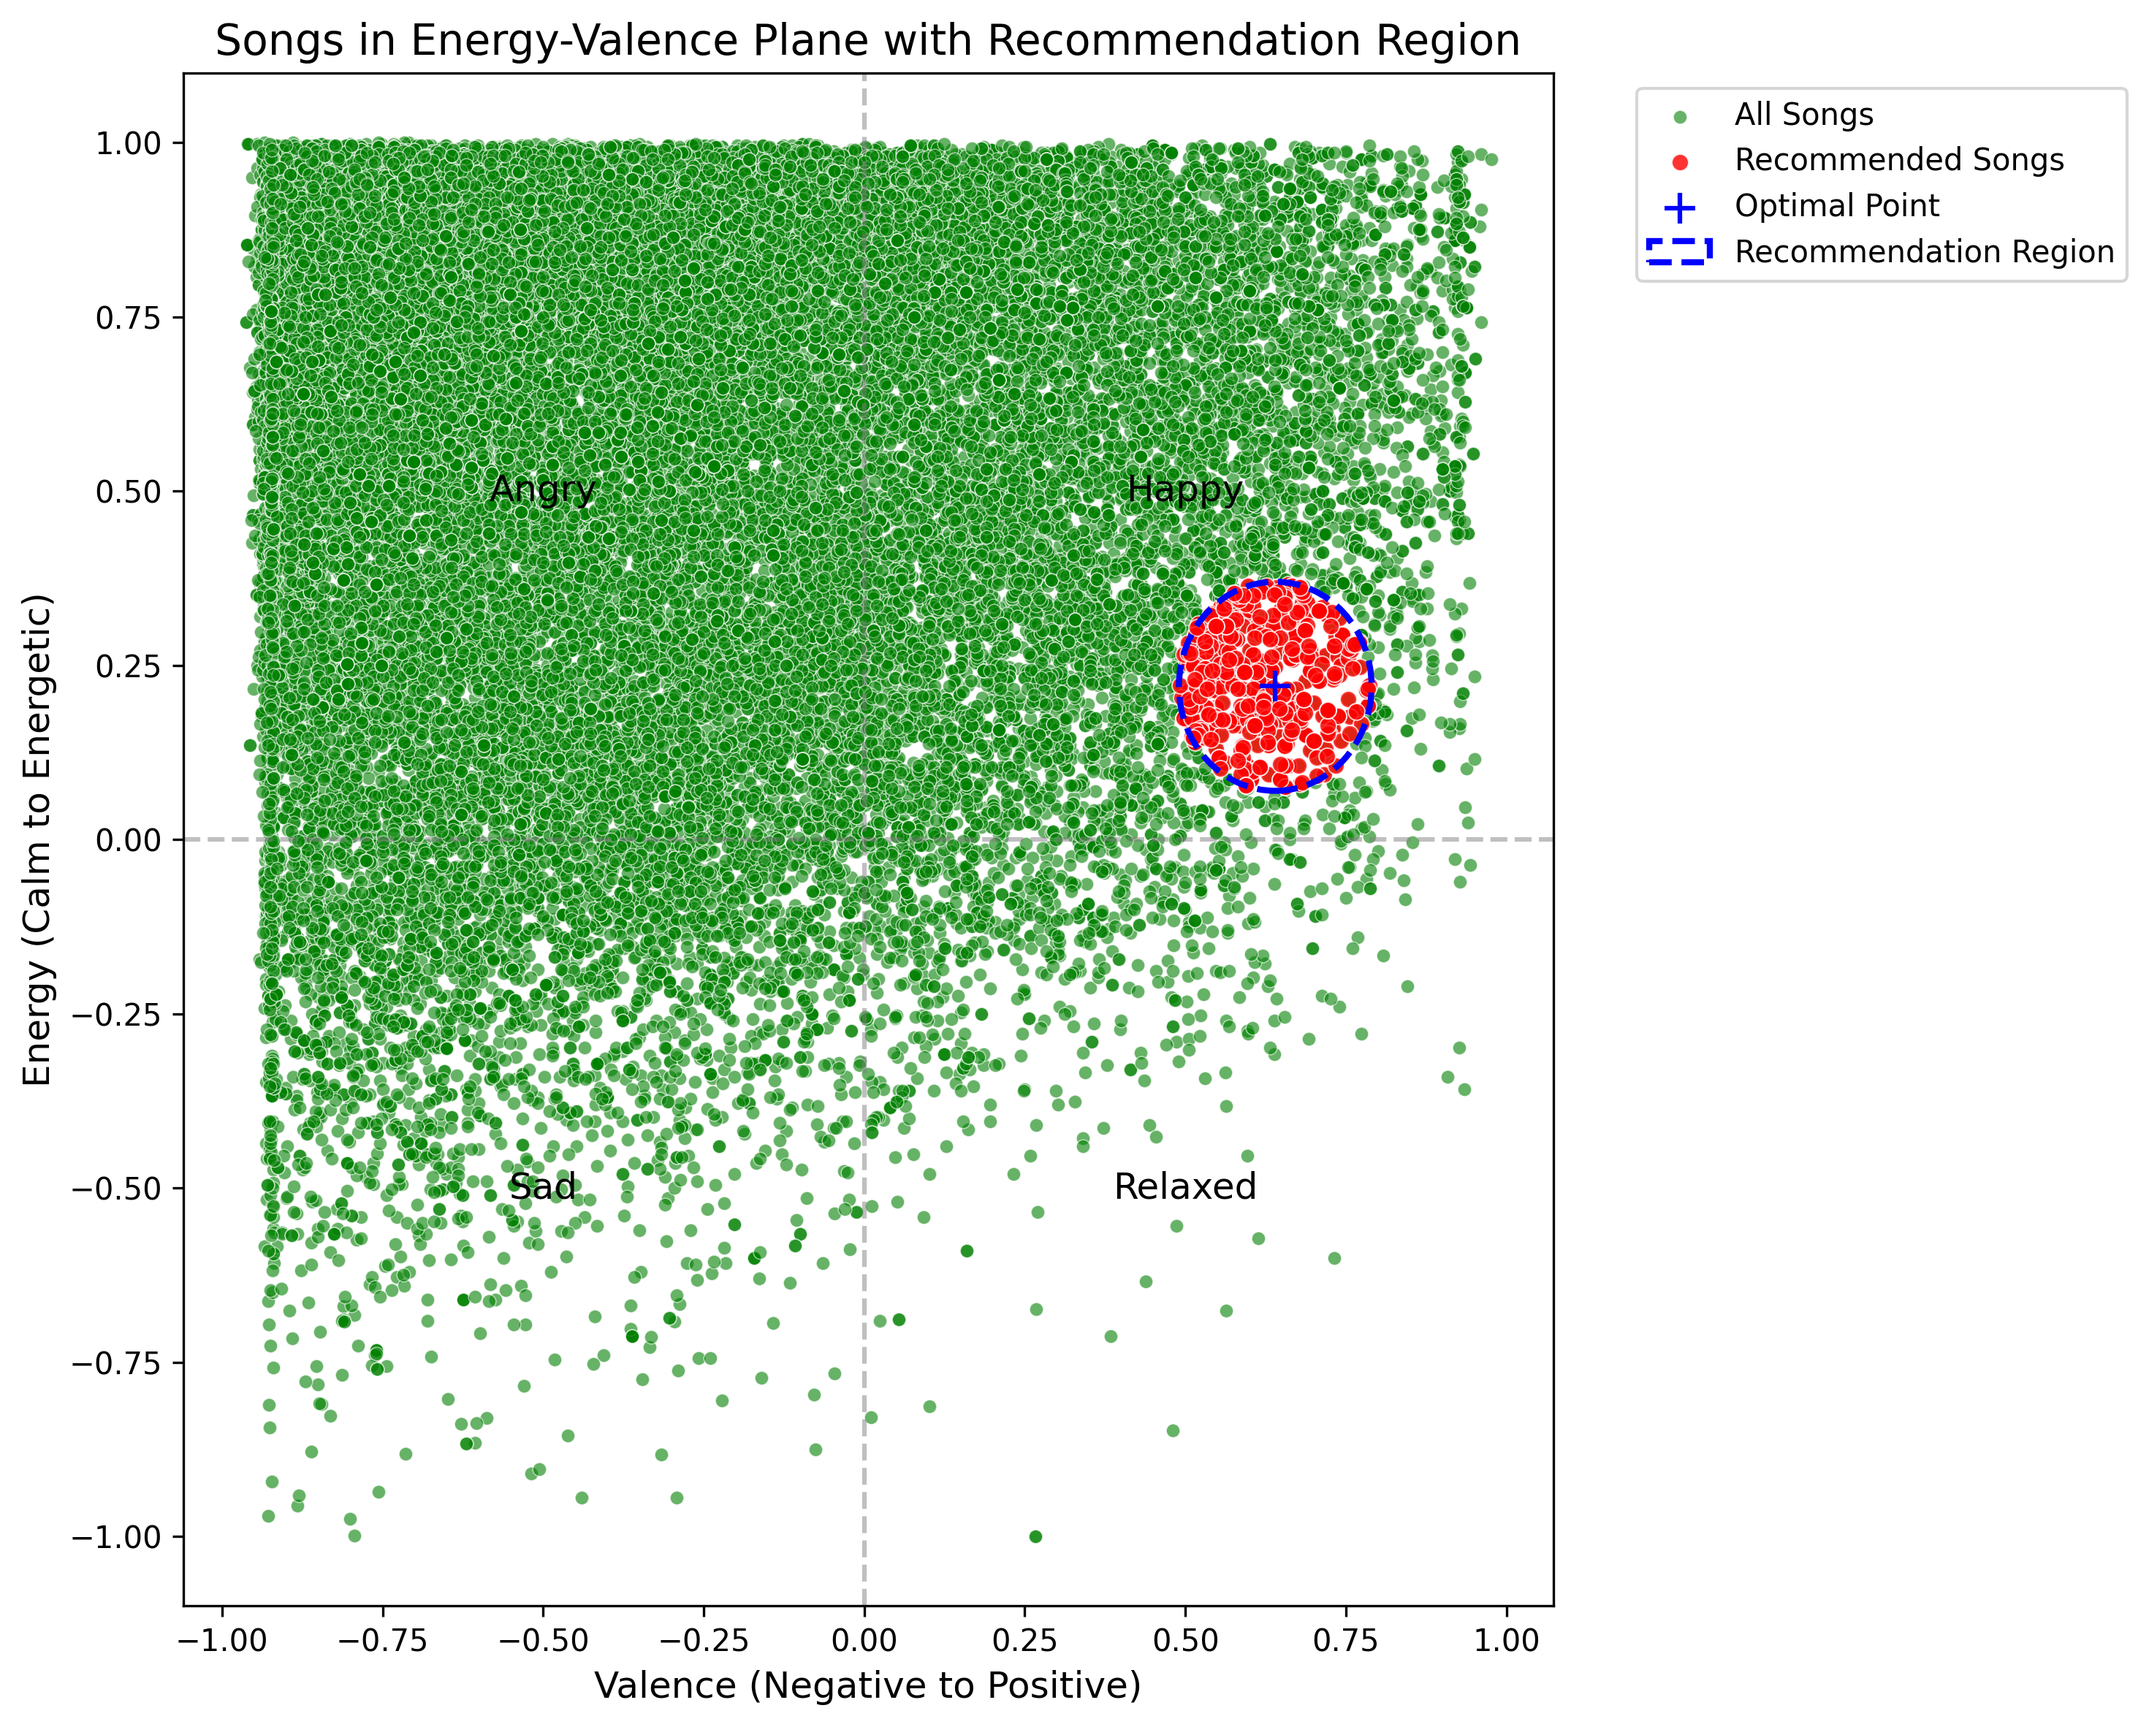
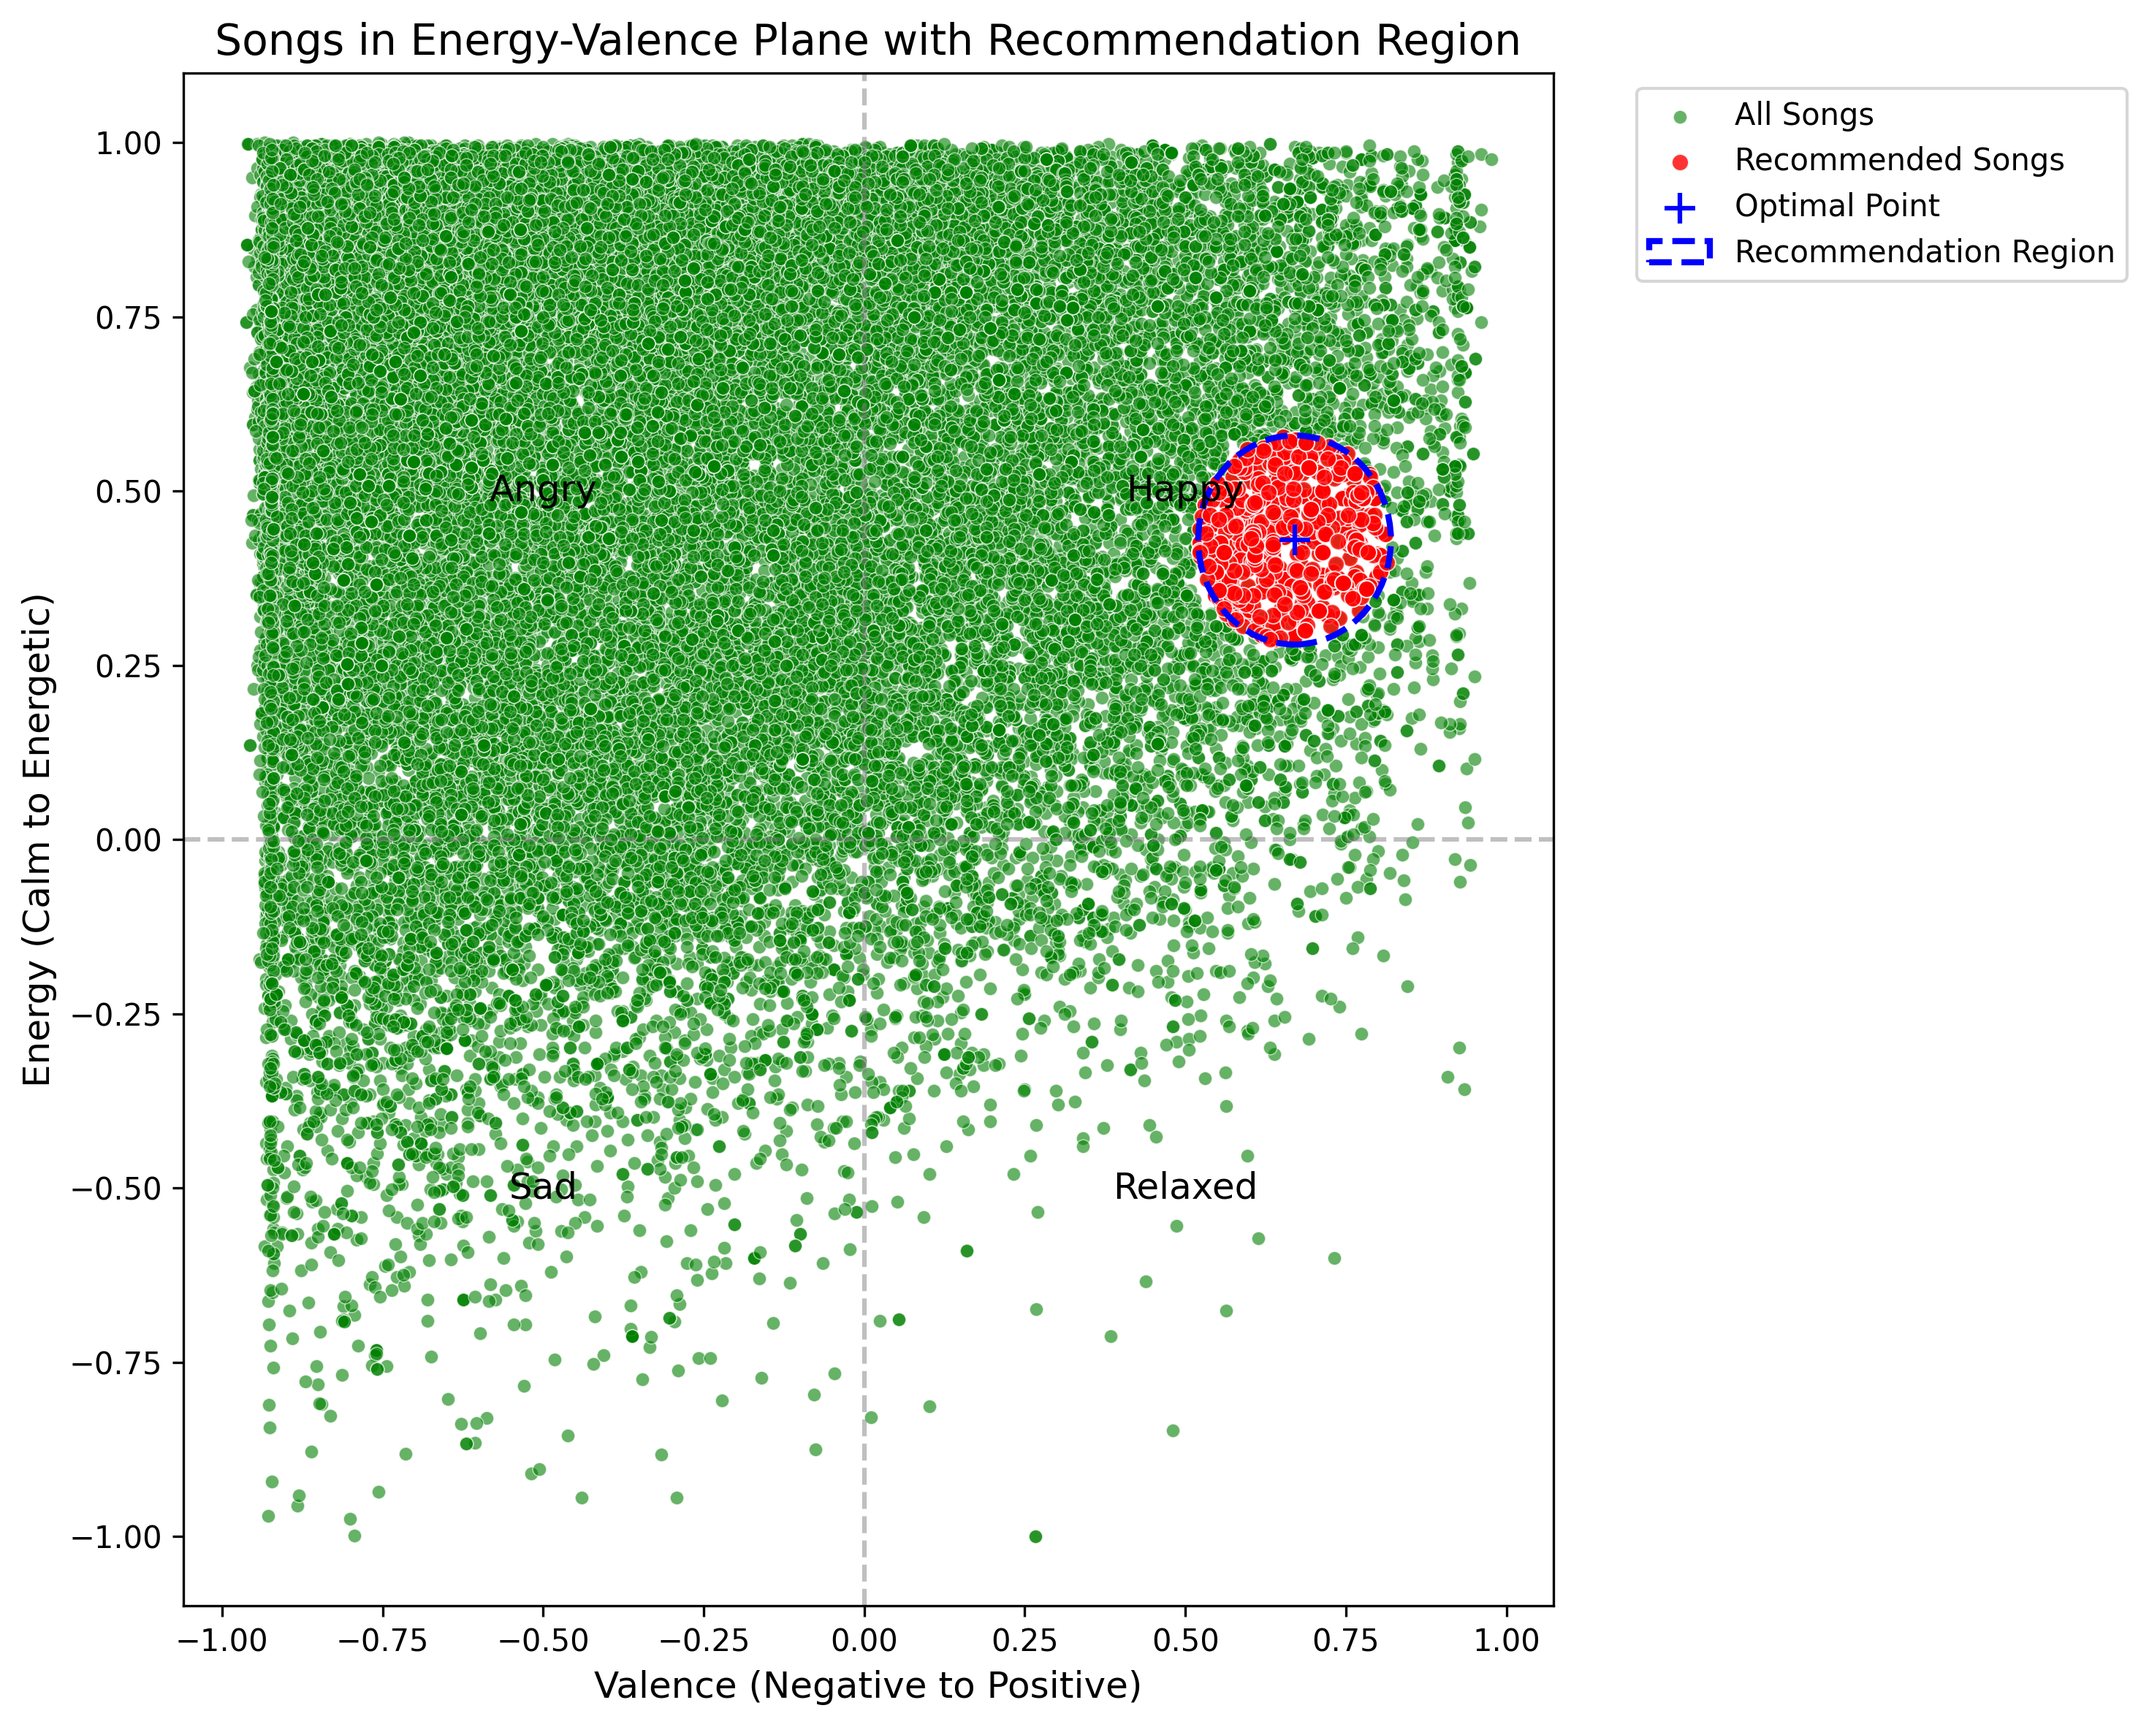
fix issue: duplicating song recommendation

Changed region(s): [[0.526, 0.247, 0.6498, 0.4632]]

diff --git a/backend/app/services/content_based_recommender.py b/backend/app/services/content_based_recommender.py
@@ -59,58 +59,76 @@ def get_best_match_songs(
 
     # Initialize already_seen for use in both branches
     already_seen = get_user_already_seen_songs(user_id, mood, db)
+    seen_track_ids = set()  # Track unique song IDs to avoid duplicates
+    result_songs = []  # Store final 5 unique songs
 
     if user_feature_matrix:
         user_pref_vector = np.mean(user_feature_matrix, axis=0).reshape(1, -1)
 
         scored_songs = []
-
         for song in songs:
+            if song.get("track_id") in seen_track_ids:
+                continue  # Skip duplicates
             song_vector = np.array(get_feature_vector(song, min_loudness, max_loudness)).reshape(1, -1)
             similarity = cosine_similarity(user_pref_vector, song_vector)[0][0]
 
             # Boost score if artist matches
             if fav_artists and artist_matches(song.get("track_artist", ""), fav_artists):
-                similarity += 0.05  # boost score slightly
+                similarity += 0.05  # Boost score slightly
 
             if already_seen and song.get("track_id") in already_seen:
-                similarity -= 0.05  # penalize already seen songs
+                similarity -= 0.05  # Penalize already seen songs
 
             scored_songs.append((similarity, song))
 
+        # Sort by similarity (descending) and collect up to 5 unique songs
         scored_songs.sort(key=lambda x: -x[0])
-        top_songs = [song for _, song in scored_songs[:5]]
-        return top_songs
+        for _, song in scored_songs:
+            if song["track_id"] not in seen_track_ids:
+                result_songs.append(song)
+                seen_track_ids.add(song["track_id"])
+                if len(result_songs) == 5:
+                    return result_songs
 
-    # If no liked songs, rely on favorite artists
-    matching_artists_songs = [song for song in songs 
-                      if artist_matches(song.get("track_artist", ""), fav_artists) ]
+    # If no liked songs or not enough from cosine similarity, rely on favorite artists
+    matching_artists_songs = [
+        song for song in songs 
+        if artist_matches(song.get("track_artist", ""), fav_artists) and song["track_id"] not in seen_track_ids
+    ]
+    matching_artists_songs.sort(key=lambda x: x.get("distance", float("inf")))
 
-    if matching_artists_songs:
-        matching_artists_songs.sort(key=lambda x: x.get("distance", float("inf")))
+    # Add unique songs from matching artists
+    for song in matching_artists_songs:
+        if song["track_id"] not in seen_track_ids:
+            result_songs.append(song)
+            seen_track_ids.add(song["track_id"])
+            if len(result_songs) == 5:
+                return result_songs
 
-        if len(matching_artists_songs) >= 5:
-            return matching_artists_songs[:5]
+    # If still need more songs, add from remaining songs sorted by distance
+    remaining_needed = 5 - len(result_songs)
+    additional_songs = [
+        song for song in sorted(songs, key=lambda x: x.get("distance", float("inf")))
+        if song["track_id"] not in seen_track_ids and (not already_seen or song["track_id"] not in already_seen)
+    ][:remaining_needed]
 
-        remaining_needed = 5 - len(matching_artists_songs)
-        matching_ids = {song["track_id"] for song in matching_artists_songs}
+    # Add unique additional songs
+    for song in additional_songs:
+        if song["track_id"] not in seen_track_ids:
+            result_songs.append(song)
+            seen_track_ids.add(song["track_id"])
 
-        if already_seen:
-            additional_songs = [
-                song for song in sorted(songs, key=lambda x: x.get("distance", float("inf")))
-                if song["track_id"] not in matching_ids and song["track_id"] not in already_seen
-            ][:remaining_needed]
-        else:
-            additional_songs = [
-                song for song in sorted(songs, key=lambda x: x.get("distance", float("inf")))
-                if song["track_id"] not in matching_ids
-            ][:remaining_needed]
+    # If still fewer than 5 songs (e.g., input list too small), pad with remaining unique songs
+    if len(result_songs) < 5:
+        remaining_songs = [
+            song for song in songs
+            if song["track_id"] not in seen_track_ids and (not already_seen or song["track_id"] not in already_seen)
+        ]
+        for song in remaining_songs[:5 - len(result_songs)]:
+            result_songs.append(song)
+            seen_track_ids.add(song["track_id"])
 
-        return matching_artists_songs + additional_songs
-
-    # If no matching artists, fallback to distance (new users with no spotify link)
-    sorted_by_distance = sorted(songs, key=lambda x: x.get("distance", float("inf")))
-    return sorted_by_distance[:5]
+    return result_songs[:5]
 
 def get_loudness_bounds(db: Session) -> tuple[float, float]:
     min_loudness = db.query(SongRating).with_entities(func.min(SongRating.loudness)).scalar() or -60.0

diff --git a/backend/app/services/rl_service.py b/backend/app/services/rl_service.py
@@ -202,9 +202,9 @@ class RLRecommendationAgent:
 
         if not rated_songs:
             weights = {
-                'similar_users_music_prefs': 0.3,
-                'current_user_mood': 0.3,
-                'desired_mood_after_listening': 0.3
+                'similar_users_music_prefs': 0.333,
+                'current_user_mood': 0.333,
+                'desired_mood_after_listening': 0.333
             }
             self._save_weights(mood, weights)
             return weights
@@ -228,9 +228,9 @@ class RLRecommendationAgent:
 
         if count == 0:
             weights = {
-                'similar_users_music_prefs': 0.3,
-                'current_user_mood': 0.3,
-                'desired_mood_after_listening': 0.3
+                'similar_users_music_prefs': 0.333,
+                'current_user_mood': 0.333,
+                'desired_mood_after_listening': 0.333
             }
         else:
             weights = {key: value / count for key, value in total_weights.items()}
@@ -303,7 +303,7 @@ class RLRecommendationAgent:
 
     def save_rating(self, song_id: str, rating: int, mood: str, arousal: float, valence: float,
                     danceability: float, energy: float, acousticness: float, instrumentalness: float, speechiness: float, 
-                    liveness: float, tempo: float, loudness: float, context: str = None):
+                    liveness: float, tempo: float, loudness: float,track_artist:str, context: str = None):
         
         PREV_RATING = 3 # default previous rating for a song
 
@@ -326,6 +326,7 @@ class RLRecommendationAgent:
             existing_rating.tempo = tempo
             existing_rating.loudness = loudness
             existing_rating.context = context
+            existing_rating.track_artist = track_artist
             existing_rating.updated_at = datetime.utcnow()
         else:
             new_rating = SongRating(
@@ -344,6 +345,7 @@ class RLRecommendationAgent:
                 tempo=tempo,
                 loudness=loudness,
                 context=context,
+                track_artist=track_artist,
                 prev_rating=PREV_RATING
             )
             self.db.add(new_rating)

diff --git a/backend/app/api/endpoints/recommendation.py b/backend/app/api/endpoints/recommendation.py
@@ -48,6 +48,7 @@ class SongRatingInput(BaseModel):
     liveness: float
     tempo: float
     loudness: float
+    track_artist: str
     context: Optional[str] = None
 
 @router.post("/rate-song")
@@ -93,6 +94,7 @@ async def rate_song(input_data: SongRatingInput, db: Session = Depends(get_db)):
                 liveness=input_data.liveness,
                 tempo=input_data.tempo,
                 loudness = input_data.loudness,
+                track_artist = input_data.track_artist,
                 context=input_data.context
             )
         except Exception as e:
@@ -202,6 +204,11 @@ async def recommend_songs(input_data: RecommendationInput, db: Session = Depends
         except Exception as e:
             logging.error(f"Error getting best match songs: {str(e)}")
             raise HTTPException(status_code=500, detail="Error selecting top songs")
+        
+        for song in selected_top_songs:
+            if "track_id" in song:
+                track_id = song["track_id"]
+                song["track_id"] = f"spotify:track:{track_id}"
 
         # 8. Return result
         return {

diff --git a/backend/app/services/optimal_point_calculator.py b/backend/app/services/optimal_point_calculator.py
@@ -104,9 +104,9 @@ def calculate_optimal_point(similar_users_music_prefs, current_mood, desired_moo
     # Step 4: Use the center of gravity method to calculate the optimal point
     # Use RL weights if provided, otherwise use defaults
     default_weights = {
-        'similar_users_music_prefs': 0.3,
-        'current_user_mood': 0.3,
-        'desired_mood_after_listening': 0.3
+        'similar_users_music_prefs': 0.333,
+        'current_user_mood': 0.333,
+        'desired_mood_after_listening': 0.333
     }
     weights = rl_weights if rl_weights is not None else default_weights
 
